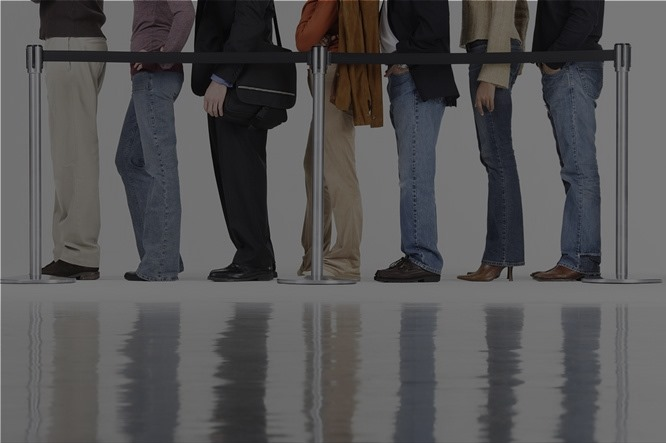
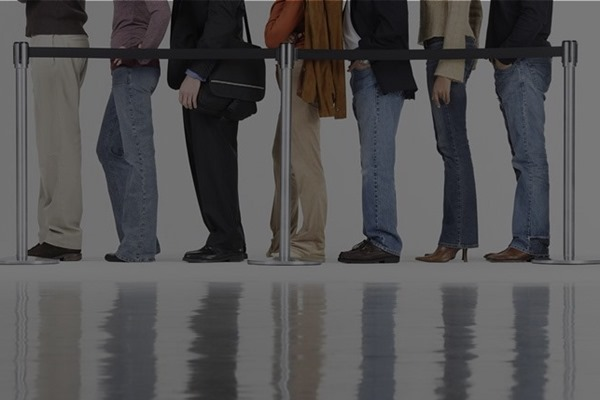
fix pic

diff --git a/faq.html b/faq.html
@@ -27,7 +27,7 @@
     <link rel="stylesheet" type="text/css" href="./slick/slick.css"/>
     <link rel="stylesheet" type="text/css" href="./slick/slick-theme.css"/>
     <!-- Favicon -->
-    <link rel="shortcut icon" href="img/logo.ico"/>
+    <link rel="shortcut icon" href="img/kemonprint_logo.ico"/>
 
   </head>
   <body>
@@ -39,7 +39,7 @@
         <div class="container">
           <!-- Brand and toggle get grouped for better mobile display -->
           <div class="navbar-header">
-            <a href="index.html" class="navbar-brand"><img class="img-fluid" src="img/neurafarm_logo_horizontal.png" alt=""></a>
+            <a href="index.html" class="navbar-brand"><img class="img-fluid" src="img/kemonprint_wide.png" alt=""></a>
             <button class="navbar-toggler" type="button" data-toggle="collapse" data-target="#main-navbar" aria-controls="main-navbar" aria-expanded="false" aria-label="Toggle navigation">
               <i class="lnr lnr-menu"></i>
             </button>
@@ -47,13 +47,13 @@
           <div class="collapse navbar-collapse" id="main-navbar">
             <ul class="navbar-nav mr-auto w-100 justify-content-end">
               <li class="nav-item">
-                <a class="nav-link page-scroll" href="#hero-area">Beranda</a>
+                <a class="nav-link page-scroll" href="./">Beranda</a>
               </li>
               <li class="nav-item">
-                <a class="nav-link page-scroll" href="#print">Cetak</a>
+                <a class="nav-link page-scroll" href="./">Cetak</a>
               </li>
               <li class="nav-item">
-                <a class="nav-link page-scroll" href="./faq.html">FAQ</a>
+                <a class="nav-link page-scroll" href="services">FAQ</a>
               </li>
               <li class="nav-item">
                 <a class="nav-link page-scroll" href="#contact">Contact</a>
@@ -65,44 +65,43 @@
         <!-- Mobile Menu Start -->
         <ul class="mobile-menu">
            <li>
-              <a class="page-scroll" href="#hero-area">Beranda</a>
+              <a class="page-scroll" href="./">Beranda</a>
             </li>
             <li>
-              <a class="page-scroll" href="#print">Cetak</a>
+              <a class="page-scroll" href="./">Cetak</a>
             </li>
             <li>
-              <a class="page-scroll" href="./faq.html">FAQ</a>
+              <a class="page-scroll" href="#services">FAQ</a>
             </li>
             <li>
               <a class="page-scroll" href="#contact">Contact</a>
             </li>
         </ul>
         <!-- Mobile Menu End -->
-
       </nav>
     </header>
 
     <section id="services" class="section" data-stellar-background-ratio="0.2">
             <div class="container">
-              <div class="section-header">          
+              <div class="section-header"><br><br>          
                 <h2 class="section-title">Frequently Asked Questions</h2>
                 <hr class="lines">
               </div>
               <div class="row">
                 <div class="col-lg-12 col-md-12 col-xs-12">
                   <div class = "text">
-                      <h4>Dimana Kemon beroperasi?</h4> <br>
+                      <h6><strong>Dimana Kemon beroperasi?</strong></h6> <br>
                       <li>Kemon baru beroperasi di Institut Teknologi Bnadung Kampus Ganesa</li>
                       
                       <br>
-                      <h4>Bagaimana cara mengambil dokumen yang sudah diupload?</h4><br>                      
+                      <h6><strong>Bagaimana cara mengambil dokumen yang sudah diupload?</strong></h6><br>                      
                       <li>Dokumen dapat diambil di LPIK Co Working Space (depan parkir sipil). Sebaiknya hubungi petugas kami sebelum mengambil untuk memastikan dokumen telah tercetak</li>
                     
                       <br>
-                      <h4>Berapa harga mencetak di Kemonprint?</h4><br>                      
+                      <h6><strong>Berapa harga mencetak di Kemonprint?</strong></h6><br>                      
                       <li>Harga per lembar tercantum saat akan upload file</li>
                       <br>
-                      <h4>Bagaimana cara pembayaran?</h4><br>                      
+                      <h6><strong>Bagaimana cara pembayaran?</strong></h6><br>                      
                       <li>Pembayaran dilakukan saat mengambil dokumen. Kami menerima tunai dan non tunai berupa GoPay, OVO, Dana, dan transfer (Jenius preferable)</li>
 
                     </div>

diff --git a/index.html b/index.html
@@ -27,7 +27,7 @@
     <link rel="stylesheet" type="text/css" href="./slick/slick.css"/>
     <link rel="stylesheet" type="text/css" href="./slick/slick-theme.css"/>
     <!-- Favicon -->
-    <link rel="shortcut icon" href="img/logo.ico"/>
+    <link rel="shortcut icon" href="img/kemonprint_logo.ico"/>
 
   </head>
   <body>
@@ -39,7 +39,7 @@
         <div class="container">
           <!-- Brand and toggle get grouped for better mobile display -->
           <div class="navbar-header">
-            <a href="index.html" class="navbar-brand"><img class="img-fluid" src="img/neurafarm_logo_horizontal.png" alt=""></a>
+            <a href="index.html" class="navbar-brand"><img class="img-fluid" src="img/kemonprint_wide.png" alt=""></a>
             <button class="navbar-toggler" type="button" data-toggle="collapse" data-target="#main-navbar" aria-controls="main-navbar" aria-expanded="false" aria-label="Toggle navigation">
               <i class="lnr lnr-menu"></i>
             </button>
@@ -118,7 +118,58 @@
         </div>
       </div>
     </section> 
-  
+    
+  <!--How to section start-->
+    <section id="features" class="section" data-stellar-background-ratio="0.2">
+      <div class="container">
+        <div class="section-header">          
+          <h2 class="section-title">How to Print with Kemonprint?</h2>
+          <hr class="lines">
+        </div>
+        <div class="row">
+            <div class="col-lg-3 col-xs-12">
+              <div class="show-box">
+                <img class="img-fulid" src="./img/feature.png" alt="">
+              </div>
+            </div>
+            <div class="col-lg-9 col-md-12 col-xs-12">
+              <div class="container">
+                <div class="row">
+                  <div class="col-lg-12 col-sm-12 col-xs-12 box-item">
+                    <span class="icon">
+                      <i class="lnr lnr-magnifier"></i>
+                    </span>
+                    <div class="text">
+                      <h4>Upload</h4>
+                      <p>Isi form dan upload file yang akan dicetak melalui website kemonprint.com</p>
+                    </div>
+                  </div>
+                  <div class="col-lg-12 col-sm-12 col-xs-12 box-item">
+                    <span class="icon">
+                      <i class="lnr lnr-bubble"></i>
+                    </span>
+                    <div class="text">
+                      <h4>Schedule</h4>
+                      <p>Komunikasikan dengan admin kapan dokumen akan diambil. Dokumen dapat diambil di alamat yang tertera di website atau tergantung kesepakatan dengan admin melalui WA/email. Pastikan nomor whatsapp mu benar saat mengisi form.</p>
+                    </div>
+                  </div>
+                  <div class="col-lg-12 col-sm-12 col-xs-12 box-item">
+                    <span class="icon">
+                      <i class="lnr lnr-book"></i>
+                    </span>
+                    <div class="text">
+                      <h4>Get</h4>
+                      <p>Ambil dokumenmu pada jadwal yang disepakati dan bayar sesuai tagihan. Pastikan membawa uang atau saldo yang cukup. Kemoprint menerima pembayaran non tunai termasuk ewallet dan transfer</p>
+                    </div>
+                </div>
+              </div>
+            </div>
+          </div>
+        </div>
+      </div>
+    </section>
+      <!--How to section start-->
+    
     <!-- Print Section Start -->
     <section id="print" class="section" data-stellar-background-ratio="0.2">
       <div class="container">
@@ -136,7 +187,7 @@
         </div>
       </div>
     </section>
-    <!-- Features Section End -->    
+    <!-- Print Section End -->    
 
     <!-- Contact Section Start -->
     <section id="contact" class="section" data-stellar-background-ratio="-0.2">      
@@ -217,7 +268,7 @@
           cssEase: 'linear',
           slidesToScroll: 1,
           autoplay: true,
-          autoplaySpeed: 3500
+          autoplaySpeed: 4500
         });
       });
     </script>

diff --git a/slick/slick.css b/slick/slick.css
@@ -120,23 +120,23 @@
 
 /*Slider background image*/
 .slider{
-    min-height: 500px;
+    min-height: 400px;
     width:100%;
     position: relative;
     overflow: hidden;
     margin: 0 auto;
 }
 .slider-1{
-    background: url(../img/slider/queue.jpg) fixed no-repeat;
+    background: url(../img/slider/pidato.jpg) fixed no-repeat;
     background-size: cover;
    
 }
 .slider-2{
-    background: url(../img/slider/teh.jpg) fixed no-repeat;
+    background: url(../img/slider/queue.jpg) fixed no-repeat;
     background-size: cover;
 }
 .slider-3{
-    background: url(../img/slider/c.jpg) fixed no-repeat;
+    background: url(../img/slider/cashless.jpg) fixed no-repeat;
     background-size: cover;
 }
 .slider-contents{
@@ -147,7 +147,7 @@
 .slider-contents h1 {
     font-size: 42px;
     font-weight: 700;
-    margin-bottom: 25px;  
+    margin-bottom: 0;
 }
   
 .slider-contents p {
@@ -158,6 +158,6 @@
 }
   
 .slider-contents .btn {
-    margin: 25px 25px 0px 0px;
+    margin: 25px 0px 0px 0px;
     text-transform: uppercase;
 }

diff --git a/css/main.css b/css/main.css
@@ -659,7 +659,7 @@ button:focus {
   6. Features Section Style
    ========================================================================== */
 #features {
-  background: url(../img/padi.jpg) fixed no-repeat;
+  background: url(../img/printbutton.jpg) fixed no-repeat;
   background-size: cover;
   color: #fff;
   overflow: hidden;
@@ -735,7 +735,7 @@ button:focus {
 
 #features .show-box img {
   position: absolute;
-  bottom: -120px;
+  bottom: -20px;
 }
 
 /* ==========================================================================
